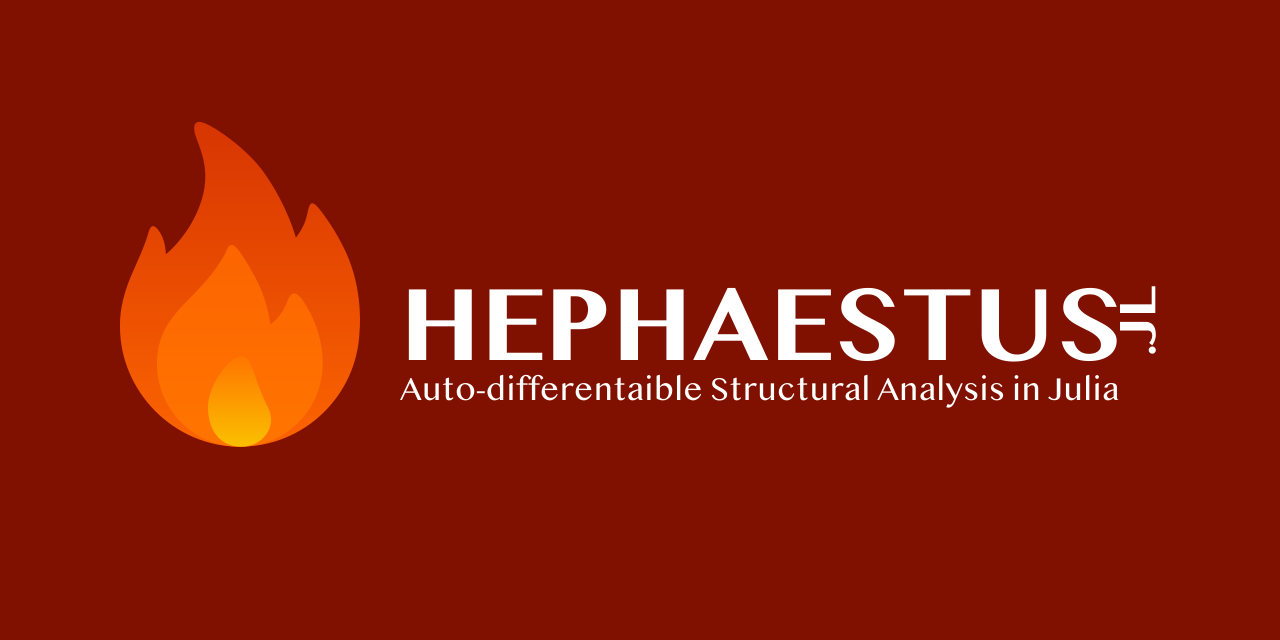
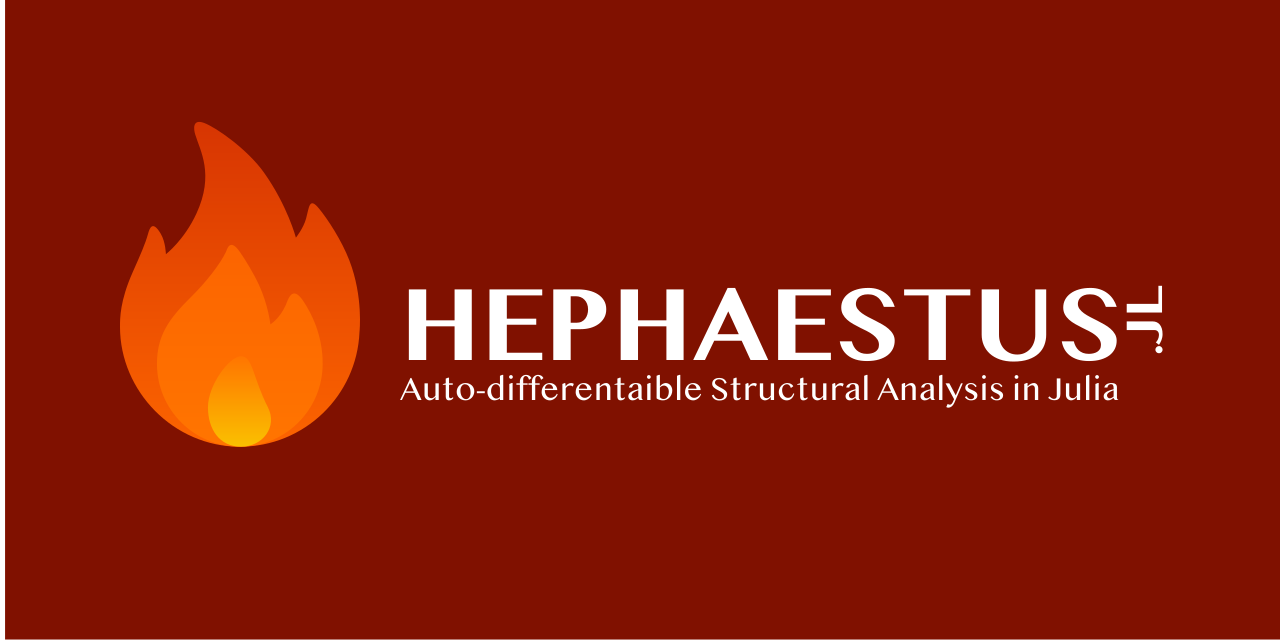
- Add compatibility entry for Julia - Add Acknowledgements sections to docs - Update social preview

Changed region(s): [[0.0, 0.0, 0.0312, 1.0], [0.875, 0.4375, 0.9062, 0.5625]]

diff --git a/README.md b/README.md
@@ -2,7 +2,29 @@
 
 ---
 
+## Description
+
 `Hephaestus.jl` is an auto-differentiable structural analysis package purely written in the Julia programming language.
+
+## Installation
+
+To install `Hephaestus.jl` package, type `]` in Julia REPL to enter the built-in Julia package manager and execute the following command:
+
+```
+pkg> add Hephaestus
+```
+
+## License
+
+`Hephaestus.jl` package is distributed under the [MIT license](https://en.wikipedia.org/wiki/MIT_License). More information can be found in the [`LICENSE.md`](https://github.com/AkchurinDA/Hephaestus.jl/blob/main/LICENSE.md) file.
+
+## Help and Support
+
+For assistance with the package, please raise an issue on the [GitHub Issues](https://github.com/AkchurinDA/Hephaestus.jl/issues) page. Please use the appropriate labels to indicate the specific functionality you are inquiring about. Alternatively, contact the author directly at [AkchurinDA@gmail.com](mailto:AkchurinDA@gmail.com?subject=Hephaestus.jl).
+
+## Acknowledgements
+
+The design of the package is inspired by [`OpenSeesPy`](https://github.com/zhuminjie/OpenSeesPy), [`PyNite`](https://github.com/JWock82/Pynite), and [`MASTAN2`](https://www.mastan2.com).
 
 ## Roadmap
 
@@ -14,7 +36,3 @@
   - [ ] Truss element
   - [x] Beam-column element (Euler-Bernoulli)
   - [ ] Beam-column element (Timoshenko)
-
-## Acknowledgements
-
-The design of the package is inspired by `OpenSeesPy`, `PyNite`, and `MASTAN2`.

diff --git a/docs/src/index.md b/docs/src/index.md
@@ -25,3 +25,7 @@ pkg> add Hephaestus
 ## Help and Support
 
 For assistance with the package, please raise an issue on the [GitHub Issues](https://github.com/AkchurinDA/Hephaestus.jl/issues) page. Please use the appropriate labels to indicate the specific functionality you are inquiring about. Alternatively, contact the author directly at [AkchurinDA@gmail.com](mailto:AkchurinDA@gmail.com?subject=Hephaestus.jl).
+
+## Acknowledgements
+
+The design of the package is inspired by [`OpenSeesPy`](https://github.com/zhuminjie/OpenSeesPy), [`PyNite`](https://github.com/JWock82/Pynite), and [`MASTAN2`](https://www.mastan2.com).
